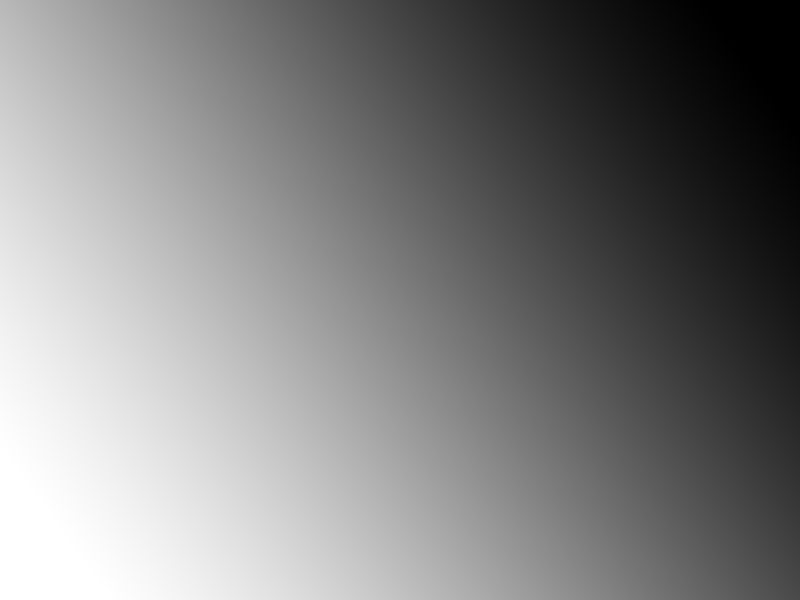
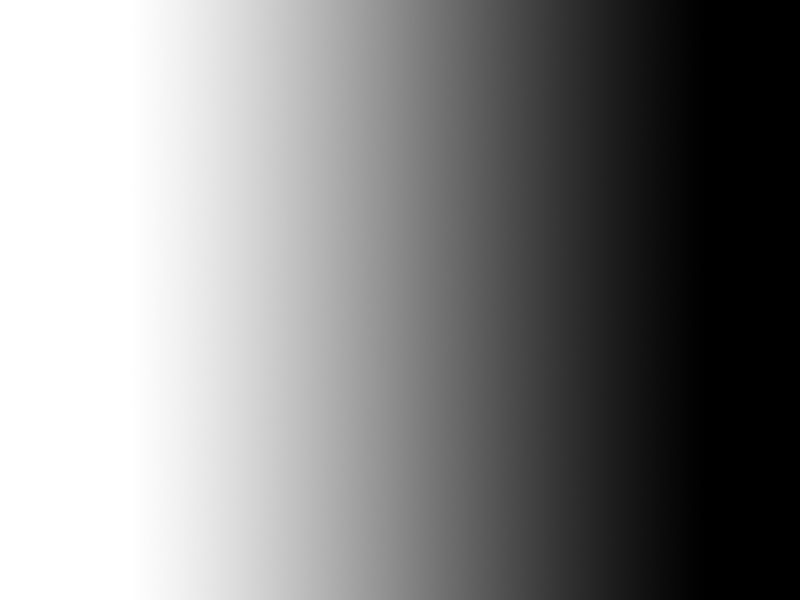
impl: add some presets

diff --git a/app/scripts/ascii/index.js b/app/scripts/ascii/index.js
@@ -3,19 +3,21 @@ import FileHandler from './FileHandler'
 import Control from './Control'
 
 import { xx, isMobile } from 'xx'
-import rangesliderJs from 'rangeslider-js'
 
-const settings = {
-  text: '中文字的順序會影響閱讀。ㄅㄆㄇㄈㄉㄊㄋㄌㄍㄎㄏㄐ',
-  resolution: 30,
-  color: '#004fb0',
-  bgColor: '#fffff1'
-}
+const makePreset = (text, resolution, color, bgColor, image) => ({ text, resolution, color, bgColor, image })
 
-rangesliderJs.create(document.querySelectorAll('input[type="range"]'))
+const presets = [
+  makePreset('愛因斯坦', 30, '#000', '#fff', 'albert-einstein.jpg'),
+  makePreset('打一個由淺到深的詞吧', 30, '#7c7c7c', '#000', 'gradient.jpg'),
+  makePreset('哪裡的人民害怕政府，哪裡就有暴政。哪裡的政府害怕人民，哪裡就有自由。', 20, '#000', '#fff', 'v.jpg'),
+  makePreset('笑 臉 贏 人 ', 20, '#fff', '#000', 'ba90.png'),
+  makePreset('飛快的棕色狐狸跳過了懶狗 ', 30, '#673808', '#e7ff98', 'qbf.jpg'), // from https://dribbble.com/shots/330090-The-quick-brown-fox-
+]
+
+const settings = presets[Math.floor(Math.random() * presets.length)]
 
 const painter = new AsciiPainter(settings)
-const controls = new Control(settings)
+const controls = new Control(settings, painter)
 
 new FileHandler(painter)
 
@@ -28,7 +30,3 @@ if (isMobile()) {
 controls.on('text', 'change', (e) => painter.charParser.parse(e.target.value))
         .on('download', 'click', (e) => e.target.href = painter.toDataURL())
         .on('resolution', 'change', (e) => painter.setResolution(e.target.value))
-
-// color picker
-window.updateColor = (jsColor) => painter.setColor(`#${jsColor}`)
-window.updateBgColor = (jsColor) => painter.setBgColor(`#${jsColor}`)

diff --git a/app/scripts/ascii/Control.js b/app/scripts/ascii/Control.js
@@ -1,13 +1,44 @@
+import { xx } from 'xx'
+import rangesliderJs from 'rangeslider-js'
+
+const defaultJsColorOptions = {
+  shadow: false,
+  borderWidth: 0,
+  borderRadius: 0,
+  backgroundColor: 'transparent',
+  insetColor: 'transparent',
+  valueElement: null,
+}
+
 class Control {
-  constructor(settings) {
+  constructor(settings, painter) {
     Object.keys(settings).forEach(domId => {
       this.addElement(domId)
 
       const value = settings[domId]
       const attr = typeof value === 'boolean' ? 'checked' : 'value'
 
-      this[domId][attr] = value
+      if (!this[domId]) return
+      this[domId].setAttribute(attr, value)
     })
+
+    this.addColor(settings.color, 'color', 'updateColor')
+    this.addColor(settings.bgColor, 'bgColor', 'updateBgColor')
+
+    window.updateColor = function (jsColor) { painter.setColor(`#${jsColor}`) }
+    window.updateBgColor = function (jsColor) { painter.setBgColor(`#${jsColor}`) }
+
+    rangesliderJs.create(document.querySelectorAll('input[type="range"]'))
+  }
+
+  addColor(value, id, changeHandler) {
+    const colorContainer = document.querySelector('.control_item--color')
+    const button = document.createElement('button')
+    button.setAttribute('id', id)
+    button.classList.add('input--color')
+    const option = Object.assign(defaultJsColorOptions, { value, onFineChange: `${changeHandler}(this)` });
+    const picker = new jscolor(button, option)
+    colorContainer.appendChild(button)
   }
 
   addElement(domName) {

diff --git a/app/scripts/ascii/AsciiPainter.js b/app/scripts/ascii/AsciiPainter.js
@@ -15,14 +15,13 @@ class AsciiPainter extends Canvas {
       webcam: false,
       color: '#cc0000',
       bgColor: '#000000',
+      image: 'sample.png',
     }
-
-    // this.isTransparent = true
 
     Object.assign(this, Object.assign(defaultOptions, options))
 
     this.charParser = new CharParser(this.text)
-    this.imageParser = new ImageParser(this.resolution)
+    this.imageParser = new ImageParser(this.resolution, this.image)
 
     if (!this.isMobile) {
       this.webcamParser = new WebcamParser(this.resolution)
@@ -48,7 +47,7 @@ class AsciiPainter extends Canvas {
       this.webcamParser.getWebcam()
     } else {
       this.webcamParser.stopWebcam()
-      this.resize()
+      this.sourceObj.imageWidth && this.resize()
     }
   }
 
@@ -98,8 +97,10 @@ class AsciiPainter extends Canvas {
 
   redraw() {
     if (!this.sourceObj.grayData || !this.charParser.chars) return
+    this.isTransparent = this.charParser.hasSpace
     this.grayData = this.getMappedGrayData()
     this.draw()
+    this.canvasDom.classList.add('is-done')
   }
 
   resize() {

diff --git a/app/scripts/ascii/ImageParser.js b/app/scripts/ascii/ImageParser.js
@@ -1,14 +1,20 @@
 import xx from 'xx'
 import PixelParser from './PixelParser'
-import imgUrl from '../../images/gradient.jpg'
+
+function importAll(r) {
+  let images = {};
+  r.keys().map((item) => { images[item.replace('./', '')] = r(item); });
+  return images;
+}
 
 class ImageParser extends PixelParser {
-  constructor(resolution) {
+  constructor(resolution, imageName) {
     super(resolution)
-    this.load()
+    const images = importAll(require.context('../../images', false, /\.(png|jpe?g)$/));
+    this.load(images[imageName])
   }
 
-  load(url = imgUrl) {
+  load(url) {
     const imgDom = document.createElement('img')
     imgDom.onload = () => {
       this.trigger('imageLoad')

diff --git a/app/styles/main.scss b/app/styles/main.scss
@@ -52,6 +52,12 @@ body {
   left: 50%;
   top: calc(50% - #{($control-bar-height / 2)});
   transform: translate(-50%, -50%);
+  transition: opacity 0.3s;
+  opacity: 0;
+
+  &.is-done {
+    opacity: 1;
+  }
 
   .drag-file & {
     opacity: 0.2;
@@ -221,10 +227,6 @@ body {
         background: #fff;
         border: 2px solid #000;
       }
-    }
-
-    &:focus ~ .label::before {
-      border-color: $active;
     }
 
     &:checked ~ .label {

diff --git a/app/scripts/ascii/CharParser.js b/app/scripts/ascii/CharParser.js
@@ -23,6 +23,7 @@ class CharParser extends Canvas {
   parse(text) {
     this.chars = []
 
+    this.hasSpace = text.includes(' ')
     this.updateChars(text)
     this.trigger('charsUpdated', this.chars)
   }
